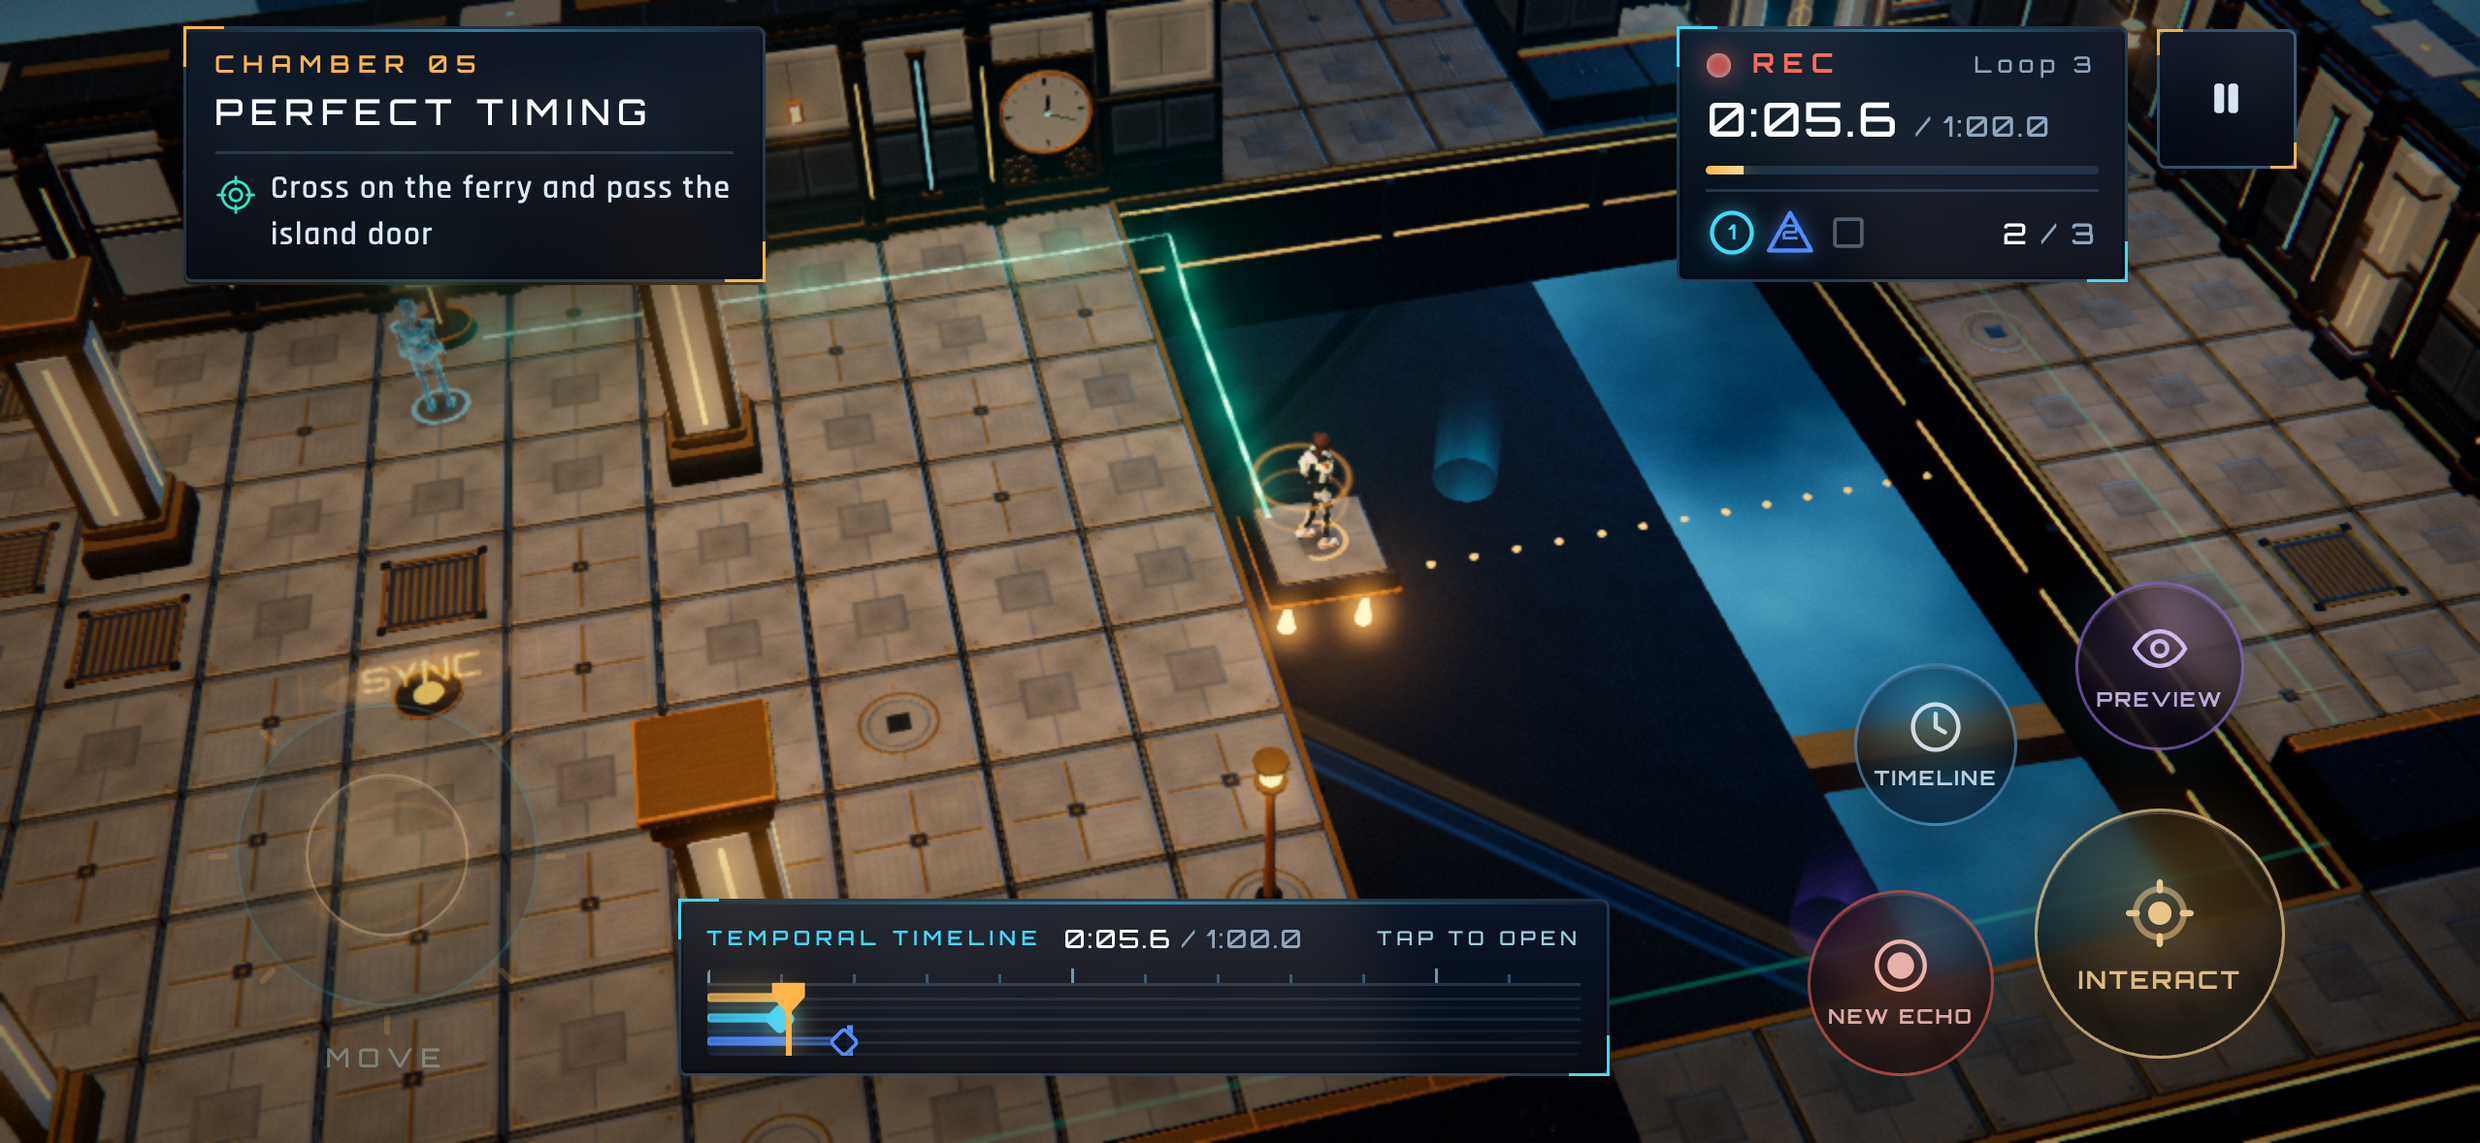
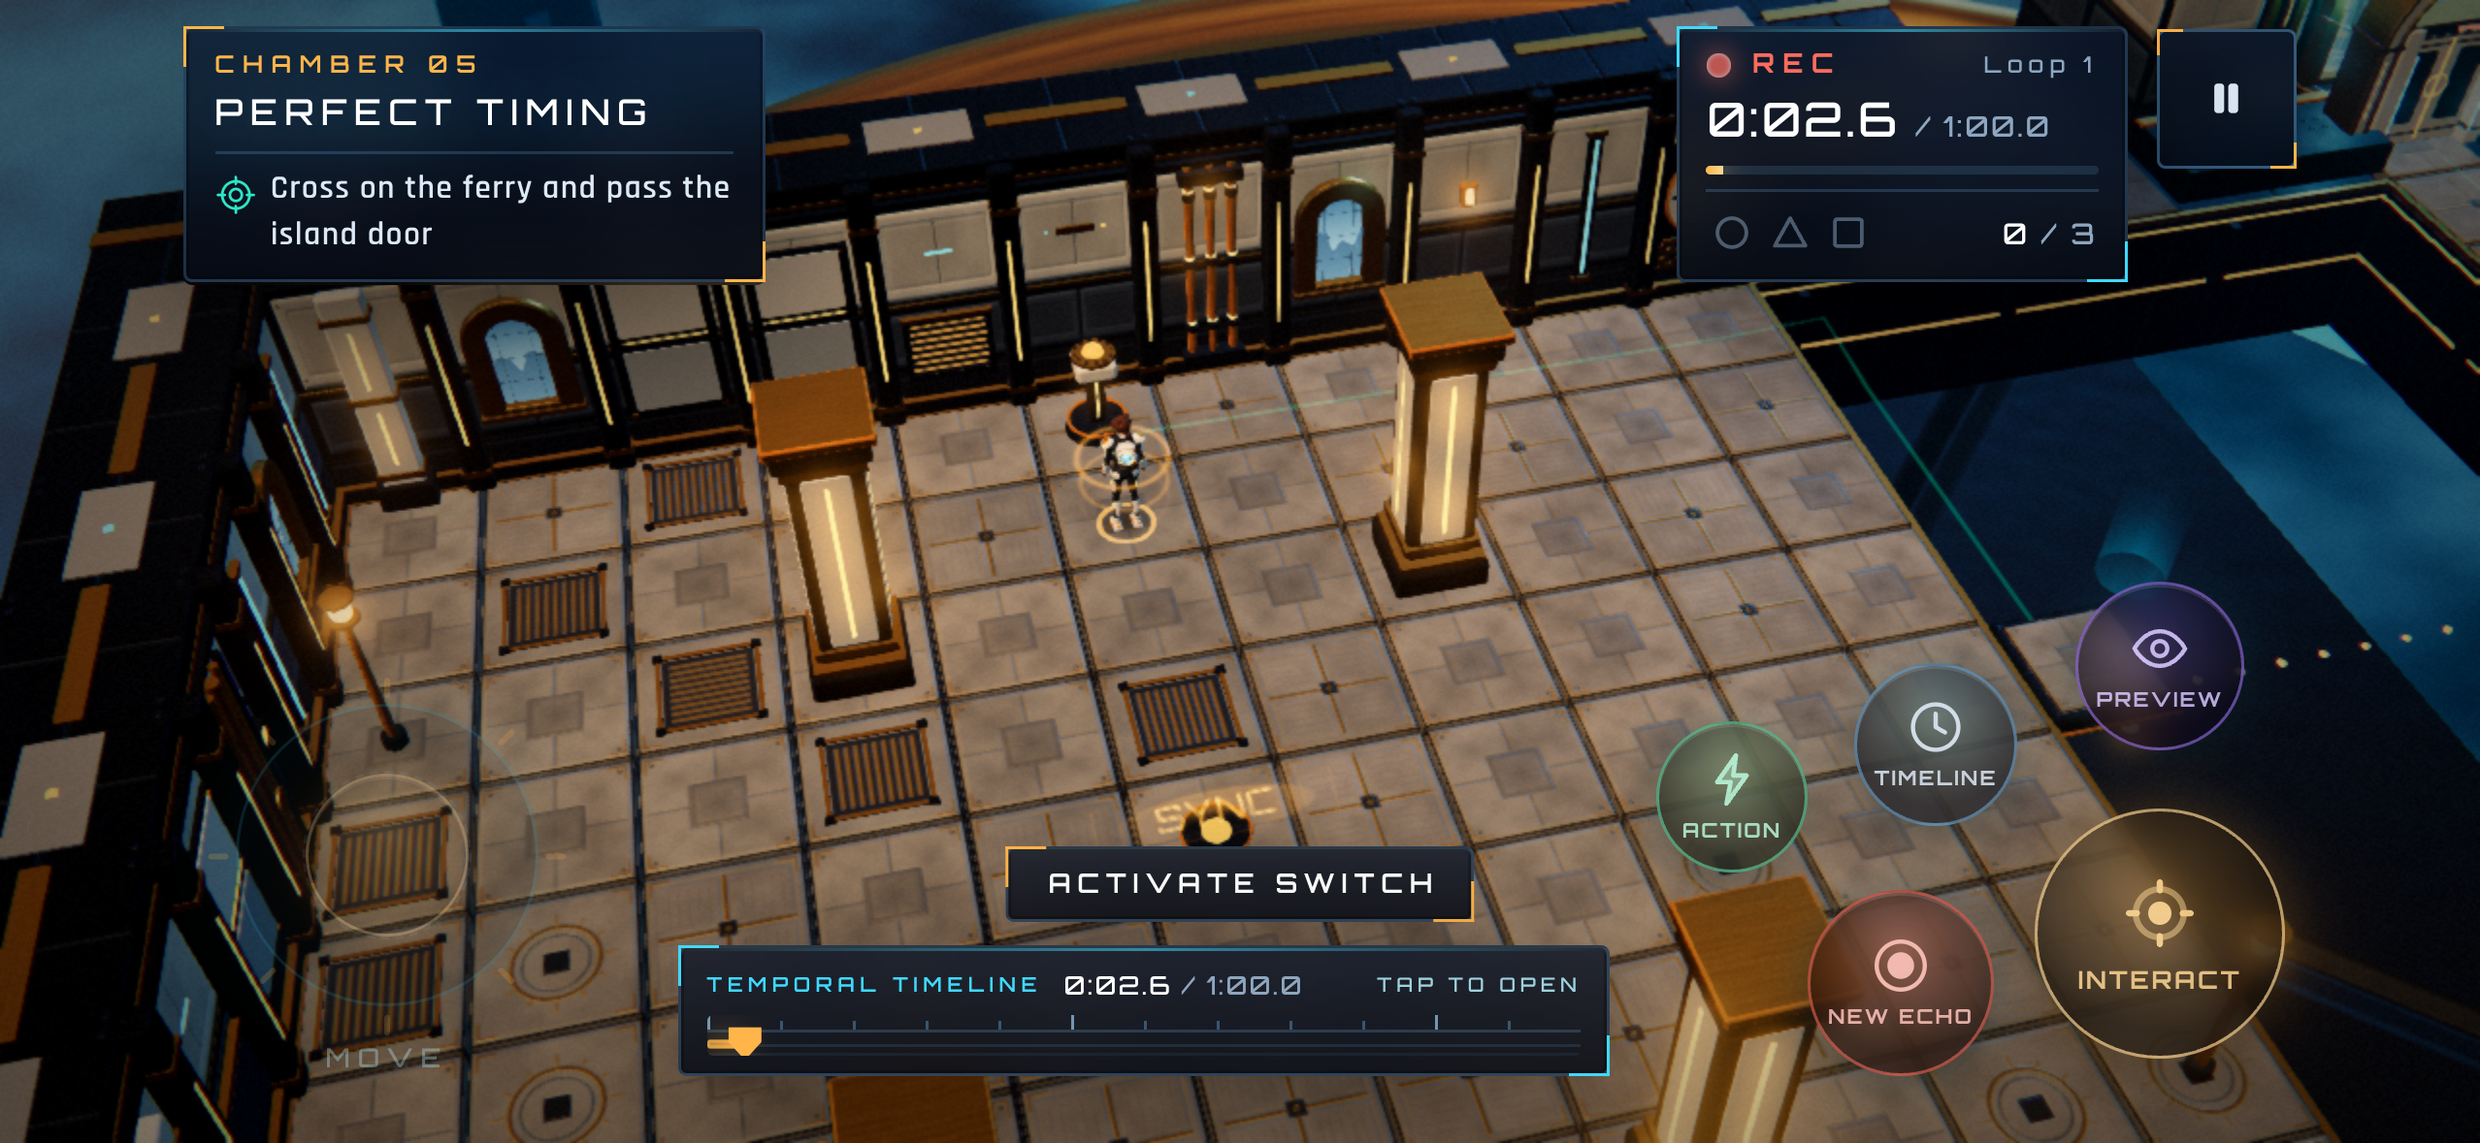
Round 4: device-aware hints, touch Action button, feedback cues, 3D colour-blind palette, offline play
- Level hints use action tokens rendered for keyboard, Xbox/PlayStation or touch
- Touch Action button, hint chip on short phones, keyboard rebind cancel fix
- gateBlocked/elevatorHeld events (unhashed) with audio and visual cues
- Head look-at targets, colour-blind palette applied to 3D echoes/badges/paths
- Service worker for offline home-screen play; Render headers for sw.js
- Load the attract solution chunk during the studio intro so the menu's echoes
  are in its first frame (avoids a second shader-compile stall)

Claude-Session: https://claude.ai/code/session_01PdtBQq3nY8sMaNJyGq2Psc

diff --git a/src/main.ts b/src/main.ts
@@ -1,11 +1,16 @@
 import { bootstrap } from './app/bootstrap';
+import { loadSolutions } from './app/lazySolutions';
 import { registerServiceWorker } from './app/serviceWorker';
 
 const appRoot = document.getElementById('app');
 const uiRoot = document.getElementById('ui');
 if (!appRoot || !uiRoot) throw new Error('index.html must contain #app and #ui');
-// Studio ident started in index.html; boot once it ends or is skipped.
+// Studio ident started in index.html; boot once it ends or is skipped. The attract replay's solution chunk loads
+// while the ident plays, so the menu's first frame already has its echoes: adding them after first paint costs a
+// second shader-compile stall. A failed fetch (offline) just boots without it; the attract retries later.
 const studioIntro = (window as Window & { __studioIntro?: Promise<void> }).__studioIntro;
-void (studioIntro ?? Promise.resolve()).then(() => bootstrap(appRoot, uiRoot));
+void Promise.all([studioIntro ?? Promise.resolve(), loadSolutions().catch(() => undefined)]).then(() =>
+  bootstrap(appRoot, uiRoot),
+);
 // Offline home-screen play (production, https/localhost, never under automation). See src/app/serviceWorker.ts.
 registerServiceWorker();

diff --git a/docs/agent-progress/release-notes.md b/docs/agent-progress/release-notes.md
@@ -1,4 +1,126 @@
-# RECURSION — Release Notes (v0.3, round 3: controllers and iPhone)
+# RECURSION — Release Notes (v0.4, round 4: device-aware hints, feedback, offline play)
+
+Date: 2026-10-11 (v0.3, v0.2 and v0.1: below) · Build: `npm run build` → static `dist/` (relative base path) + `dist/sw.js` · Reviewer: Game Director
+
+Same honesty rule as before: "verified" means checked by a test that was run for this release. **Every v0.4 browser
+check ran in Chromium only** (SwiftShader software WebGL, ~0.5 fps). iPhone was emulated (`devices['iPhone 15']`),
+controllers were mocked. Real Safari/WebKit, real touch screens, real controllers, real GPUs and real speakers were
+**not** tested.
+
+## v0.4 summary
+
+- **Hints follow the active device.** Authored level text uses action tokens (`{interact}`, `{echo}`, …) rendered as
+  the player's own key caps, Xbox / PlayStation / Switch glyphs or touch button names (HUD hint card, pause hint
+  list, level intro, onboarding). A unit test rejects hardcoded key names in level text. Closes v0.3 issue 3.
+- **Touch Action button** (Space context action), shown only while the faced object answers it (timed switches) or
+  the chamber's solution uses it; same input path as the Space key. Closes v0.3 issue 4.
+- **Short phone screens (≤ 360 px tall):** hints arrive as a small chip under the chamber card and expand on tap above
+  the joystick zone. Closes v0.3 issue 5.
+- **Keyboard rebind fix:** a pending rebind is cancelled by clicking any row or pressing any pad button. Closes v0.3
+  issue 7.
+- **Gameplay feedback:** new unhashed events `gateBlocked` and `elevatorHeld` with their own audio cues; held lifts
+  pulse coral and shudder, held-open temporal gates show gold status lamps; spark bursts on door/gate/lift blocks;
+  the character's head looks at what E would act on, else an upcoming echo target.
+- **Colour-blind palette in 3D:** echo holograms, trails, badges and ghost paths now use exactly the timeline colours.
+  Visible change in the default palette: Echo 3+ are violet / teal / lilac instead of all cyan.
+- **Character turntable:** `graphics-preview.html?turntable=1` (front three-quarter studio view);
+  `final-character.png` was regenerated from it.
+- **Load path:** the attract-replay solution compiler and test harness are a lazy chunk loaded after the menu paints.
+- **Offline play:** a service worker (`public/sw.js`, precache manifest written at build time) caches the built app
+  for the home-screen web app; registered only in production, on HTTPS/localhost, never under automation; `?nosw`
+  removes it. `render.yaml` serves `/`, `/index.html` and `/sw.js` with `no-cache`.
+
+## v0.4 director checks (Chromium)
+
+| Check | Result |
+|---|---|
+| `npm run verify` | **Pass**: typecheck clean, Vitest 44 files / 589 tests, none skipped, build OK (start and end of the pass) |
+| Golden replays | **Pass, justified diff**: only `levelFingerprint` lines changed (9 lines: the 5 golden files of L01, L03, L07, L10 and the test chamber, plus 4 lines in `fuzz-fingerprints.golden.json`), because those levels' hint *text* changed to action tokens. Every per-tick hash, checkpoint, event count and completion tick is unchanged; the new events are not hashed. Accepted. |
+| Full e2e suite (`CI=1 E2E_PORT=4815 npx playwright test`) | **18 passed, 0 failed** in 32.8 min, all visual baselines matched: **no re-bless** |
+| Mobile spec re-run after the director's CSS fix (below) | **2 passed** (iPhone end to end; 740×340 hint chip + Action button) |
+| Service worker under Playwright (webdriver) on a production preview | **Pass**: no registration, no caches, no console errors/warnings |
+| Service worker on the dev server (webdriver spoofed off) | **Pass**: never registers |
+| Service worker on a production preview (webdriver spoofed off) | **Pass**: registers, activates, controls the page, precaches 24 files into `recursion-1-<version>`; no console errors |
+| Production preview boots with no console errors | **Pass** (automation and non-automation) |
+| Main menu faster? | **Mixed, see below.** First painted menu frame unchanged (~10.3 s under SwiftShader); main thread becomes free ~3.5–4 s *later* |
+
+**Golden diff detail:** `git diff src/testing/replays | grep '^[-+] ' | grep -v levelFingerprint` prints nothing.
+The level-definition diffs are exactly the five hint strings (`Press E` → `Press {interact}`, `press R` →
+`press {echo}`).
+
+**Time to menu (director, idle machine, `vite preview`, fresh browser per run, `?quality=low`, 3 runs, medians, ms):**
+
+| Build | DOMContentLoaded | First menu frame painted | FCP | Attract replay starts |
+|---|---|---|---|---|
+| Before round 4 load work (`dist-before`) | 4322 | 10328 | 12888 | 10327 |
+| After (current tree) | 4325 | 10433 | 12600 | 15413 |
+
+A long-task trace (2 runs each, 30 s) shows why "menu visible and responsive" got worse even though the first menu
+frame did not move: before, three long tasks ending at ~14.6–16.0 s; now a fourth ~3.8–4.4 s task starts when the
+attract replay switches to the known solution (~14–15 s) and ends at ~17.8–19.8 s. It is most likely the first frame with echo
+holograms: shader programs that used to compile inside the first frame now compile in a second batch (inferred from the timing, not profiled). Measured
+as "menu laid out and the page answering", 6 alternating runs at default quality: before 17.9 s, after 21.7 s. Under
+SwiftShader this is a ~4 s input stall on the menu; on a real GPU it should be a small hitch, but it is unmeasured.
+So **the main-menu load did not get faster on this machine**; the release engineer's "no regression, small gain"
+measured only the first menu frame. Suggested follow-up (graphics/load owners): pre-warm the echo hologram materials
+(`renderer.compile` / `compileAsync`) during boot or idle, or start the solutions import at boot so echoes exist in
+the first frame.
+
+**Director fix (minimal):** on touch, the gold verb tag above the Interact button ("ACTIVATE SWITCH") covered the
+Timeline button and its label whenever the player faced a timed switch. The HUD's centre prompt already shows the
+same verb (and the blocked state), so the tag is now hidden during touch play (`src/ui/touch/touchStyles.ts`, one
+CSS rule); the Interact button keeps its ready glow and blocked colour.
+
+Screenshots (overwritten): `docs/art-direction/screenshots/final-character.png` (turntable, front three-quarter,
+player, high quality) and `final-mobile-hud.png` (iPhone 15 landscape, L05 facing the Drive Switch: Action button
+visible, Interact ready). The hint chip only appears at ≤ 360 px tall, so it is not in the iPhone 15 shot; it was
+reviewed in the 740×340 mobile-spec screenshots (scratchpad only).
+
+## Check on real hardware (owner), new in v0.4
+
+Everything in the v0.3 list below still applies. In addition:
+
+1. **Offline:** install to the home screen over HTTPS, launch once online, then enable airplane mode and relaunch:
+   the menu, a level and the attract replay should work. Check iOS storage eviction after days without launching,
+   and that a new deploy is picked up (it takes over after the app is fully closed and reopened).
+2. **`?nosw`** clears the worker and caches on iOS Safari.
+3. **Render headers:** confirm the `/` rule only matches the root URL and `sw.js` is served `no-cache` on the live
+   deploy.
+4. **Menu boot on a real GPU:** time to an interactive menu, and whether the echo-hologram shader batch causes a
+   visible hitch when the attract replay starts.
+5. **Action button and hint chip** on a real small phone (≤ 360 px tall in landscape with browser bars), and the
+   device-aware hint glyphs with real Xbox / PlayStation / Switch pads.
+6. **Feedback feel:** held-lift shudder/pulse, gate lamps, spark bursts and the new `gateBlocked` / `elevatorHeld`
+   sounds on real speakers and GPUs; the head-look glance.
+7. **Echo colours:** art-direction sign-off on Echo 3+ being violet / teal / lilac in the default palette.
+
+## v0.4 known issues
+
+1. Real Safari/WebKit, touch hardware, controllers, GPUs and speakers untested (above). Mobile fps still unmeasured.
+2. Menu interactivity is ~4 s later under SwiftShader because echo shaders now compile in a second batch (above).
+3. Critical-path JS is unchanged (~361 kB gzip); bigger savings need lazy-loading touch UI and audio.
+4. The attract solution still compiles synchronously once its chunk loads (up to ~0.3 s for L10 on desktop).
+5. Whether a hint is a chip is decided when it appears; rotating/resizing while it is open does not re-collapse it.
+6. The turntable's head-look-at-camera pose tilts the head noticeably at 35°; acceptable for review, not final art.
+7. Still open from v0.3: Gamepad presses shorter than a frame can be missed; switching to Mobile mid-session needs a
+   reload for half-resolution textures; home-screen and Safari storage are separate; the smoke flow test takes ~4 min.
+
+## v0.4 tests run (director)
+
+- `npm run verify` at the start and end of the pass: typecheck clean · Vitest 44 files, 589 tests passed, none skipped
+  · build OK.
+- Full Playwright suite `CI=1 E2E_PORT=4815 npx playwright test`: 18 passed in 32.8 min, no baselines re-blessed. Perf
+  probe (SwiftShader): L10 high 0.40 fps / 376 draw calls / 0.77 M triangles; low 0.44 fps / 255 / 0.61 M (v0.3: 376 /
+  253), so desktop rendering cost is essentially unchanged.
+- `tests/e2e/mobile.spec.ts` re-run against a build with the director's CSS fix: 2 passed (3.7 min).
+- Service-worker checks, time-to-menu and long-task traces: director scripts in the scratchpad (not committed).
+
+Team reports: `docs/agent-progress/ux-input-round4.md`, `gameplay-feedback-round4.md`, `release-engineer-round4.md`;
+director: `docs/agent-progress/director-round4.md`.
+
+---
+
+# v0.3 (round 3: controllers and iPhone)
 
 Date: 2026-10-11 (v0.2 and v0.1: below) · Build: `npm run build` → static `dist/` (relative base path) · Reviewer: Game Director
 

diff --git a/docs/agent-progress/director-round4.md b/docs/agent-progress/director-round4.md
@@ -1,0 +1,61 @@
+# Director verification, round 4
+
+Date: 2026-10-11 · Scope: verify the UX/input, gameplay-feedback and load-time (release) round-4 work, fix integration
+problems minimally, refresh two final screenshots, update README and release notes (v0.4). Nothing committed.
+
+## Results
+
+| Item | Result |
+|---|---|
+| `npm run verify` (start and end) | Green: typecheck clean, Vitest 44 files / 589 tests, no skipped tests, build OK |
+| Golden replays | Diff limited to 9 `levelFingerprint` lines (L01, L03, L07, L10, T00 golden files and 4 lines of `fuzz-fingerprints.golden.json`). The level definitions changed only in five hint strings (key names → action tokens). All hashes, checkpoints, event counts and completion ticks unchanged. **Accepted as legitimate.** `gateBlocked` / `elevatorHeld` are not hashed (`temporalGate.serialize` is used only by `stateHash.ts`). |
+| Full e2e (`CI=1 E2E_PORT=4815 npx playwright test`) | **18/18 passed**, 32.8 min, all visual baselines matched, no re-bless |
+| Mobile spec after my CSS fix (`E2E_PORT=4831`, my scratch build) | 2/2 passed |
+| SW under automation (prod preview) | Not registered, no caches, 0 console errors/warnings |
+| SW on dev server (webdriver spoofed off) | Not registered |
+| SW on prod preview (webdriver spoofed off) | Registered, active, controlling; 24 files in `recursion-1-4d2a6b33dde9`; 0 console errors |
+| Main menu faster? | **No, not on this machine.** First painted menu frame is unchanged (10.3 s before vs 10.4 s after, release engineer's own tool, `?quality=low`, 3 runs). But a new ~4 s long task starts when the attract replay switches to the known solution (echo holograms appear, most likely a second shader-compile batch). The menu becomes responsive ~3.5–4 s later: 17.9 s before vs 21.7 s after, measured as "menu laid out and page answering", 6 runs, default quality. Documented in the release notes with a suggested follow-up (pre-warm echo materials, or start the solutions import at boot). Not fixed: the cause is inferred from timing, not profiled, and a fix belongs to the graphics and load owners. |
+
+## Integration fix (minimal)
+
+- `src/ui/touch/touchStyles.ts`: one CSS rule hides the gold verb tag above the touch Interact button during touch
+  play (`.rx-root.rx-tplay .rx-tbtns .rx-tprompt { display: none; }`). With the player facing a timed switch, that tag
+  covered the Timeline button and its label. This showed up in the final mobile screenshot, and the UX engineer's
+  known issue already mentioned it. The HUD centre prompt already shows the same verb and blocked state. The Interact
+  ready glow and blocked colour are unchanged. No unit or e2e test referenced the tag.
+
+## Screenshots (overwritten only)
+
+- `docs/art-direction/screenshots/final-character.png`: turntable (`graphics-preview.html?turntable=1&t=40`), player,
+  front three-quarter, high quality, 900×1100, preview caption hidden. Reviewed: face, chest, armour panels and gold
+  edge glow read clearly. The head tilts toward the camera, which is acceptable for review but not final art.
+- `docs/art-direction/screenshots/final-mobile-hud.png`: iPhone 15 landscape (852×393, safe-area insets 59/59/0/21),
+  production build, L05 walked to the Drive Switch. The Action button is visible and Interact is ready, with no
+  overlapping labels after the fix and no console errors. The hint chip appears only at ≤ 360 px tall, so it is not in
+  this shot. I reviewed it in the 740×340 mobile-spec screenshots (`test-results/mobile/short-hint-*.png`), where the
+  chip sits under the chamber card and the expanded card stays above the joystick.
+
+## Docs
+
+- `README.md`: in Controls, a sentence that level hints use action tokens (device-aware). In Playing on iPhone, offline
+  play after the first HTTPS launch, linking to the existing "Service worker (offline play)" section (cache bump and
+  clearing were already documented by the release engineer).
+- `docs/agent-progress/release-notes.md`: new v0.4 section at the top (summary, director checks, time-to-menu table,
+  real-hardware checklist additions, known issues, tests). The v0.3 heading was renamed to "v0.3 (…)".
+
+## Housekeeping
+
+- Killed the release engineer's preview servers on 4391 (PID 5701 tree) and 4395 (PID 13289), as they asked. The PID
+  in their `prev-c.pid` (15331) was stale.
+- Killed my own servers (4831, 4832, 4833).
+- Still running and not mine, so left alone: the vite dev server on 5391 (PID 2678, orphaned child of the
+  gameplay-feedback engineer's PID 2665, which they reported killed), and previews on 4392/4393/4394 (PIDs 6413,
+  11438, 12438; `dist-a/b/d` from the load-time pass, which the release engineer did not list). The director should
+  kill them.
+- The release engineer's unconfirmed smoke spec is now confirmed: all 3 smoke tests passed in the full run.
+
+## Open items for the next round
+
+1. Menu responsiveness regression under SwiftShader (above); measure on a real GPU and pre-warm echo materials.
+2. Real-device checks listed in the v0.4 release notes (offline on iOS, `?nosw`, Render headers, Action button and
+   chip on a real small phone, pad glyphs in hints, feedback feel, Echo 3+ colours sign-off).
